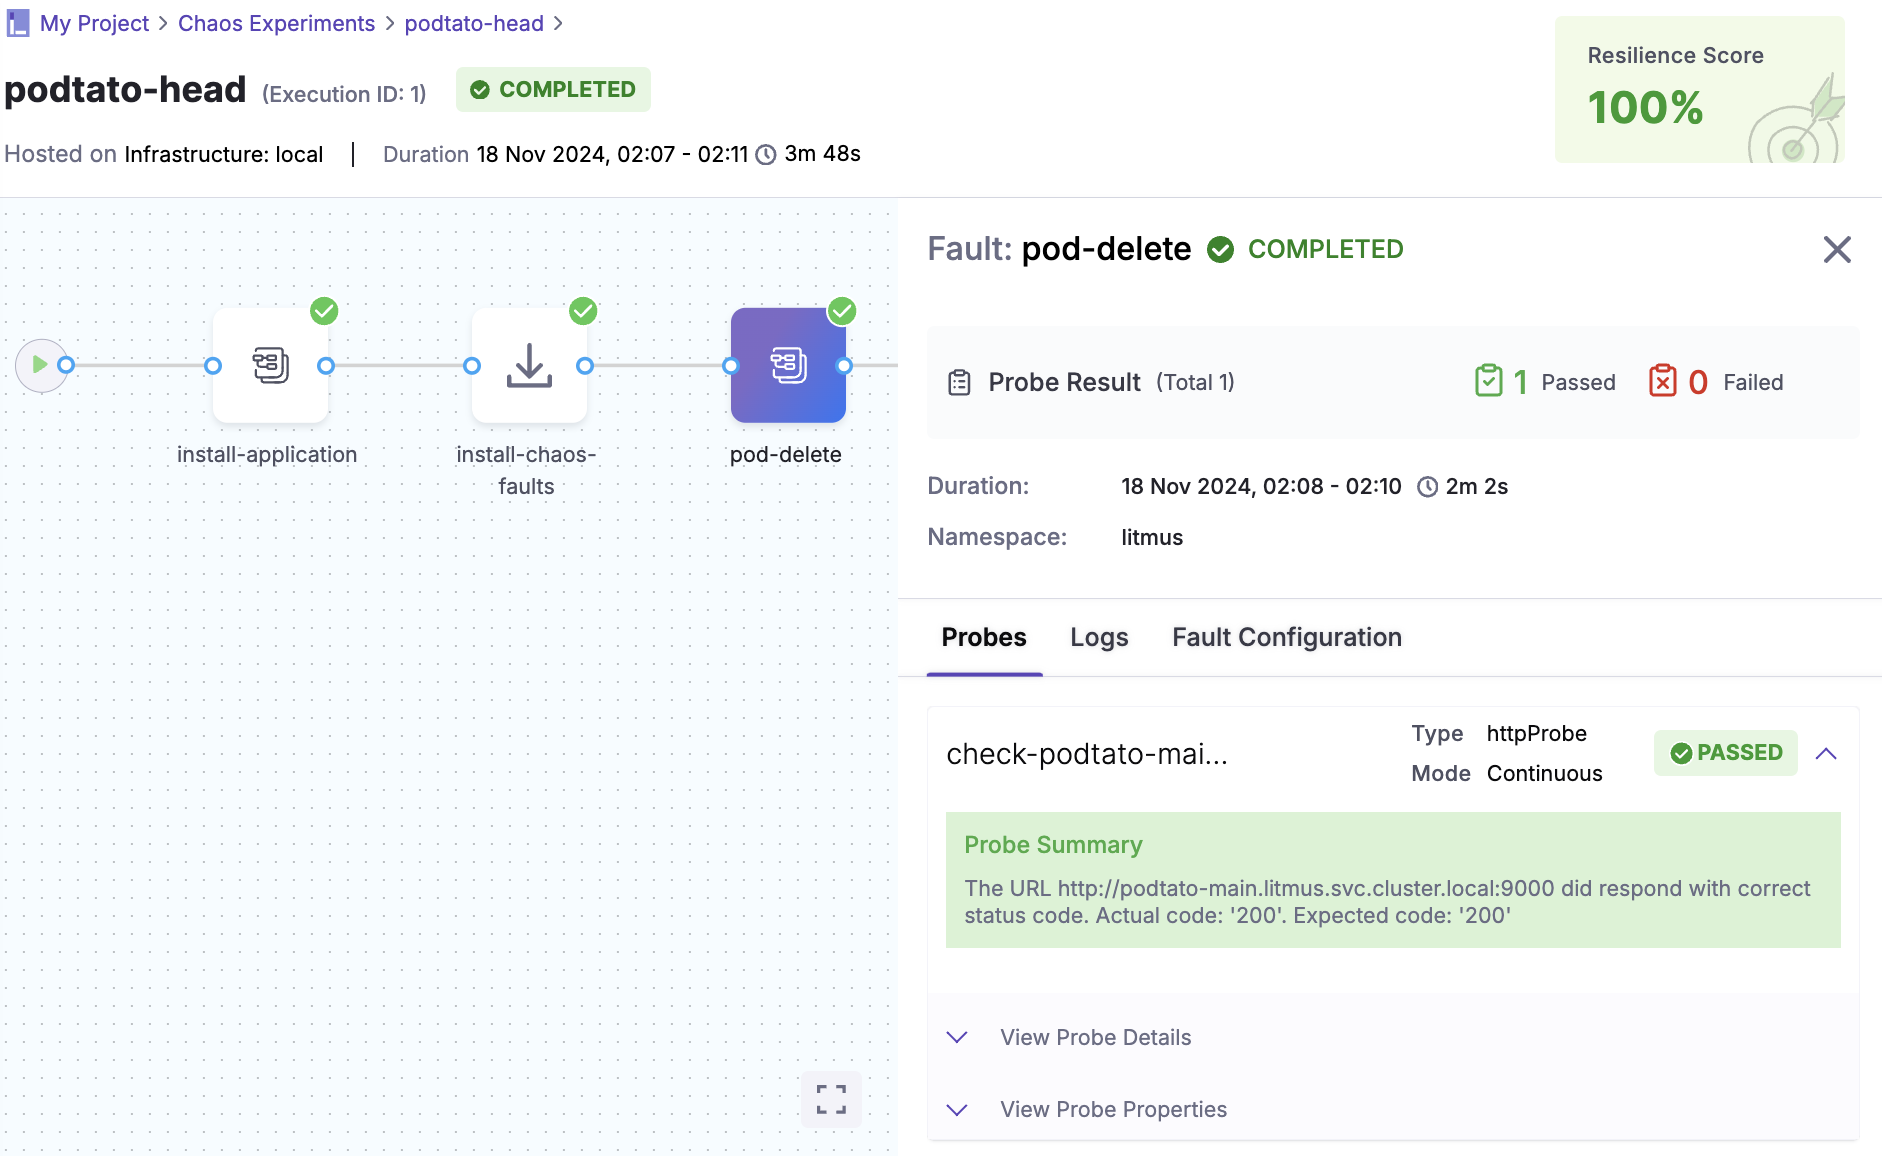
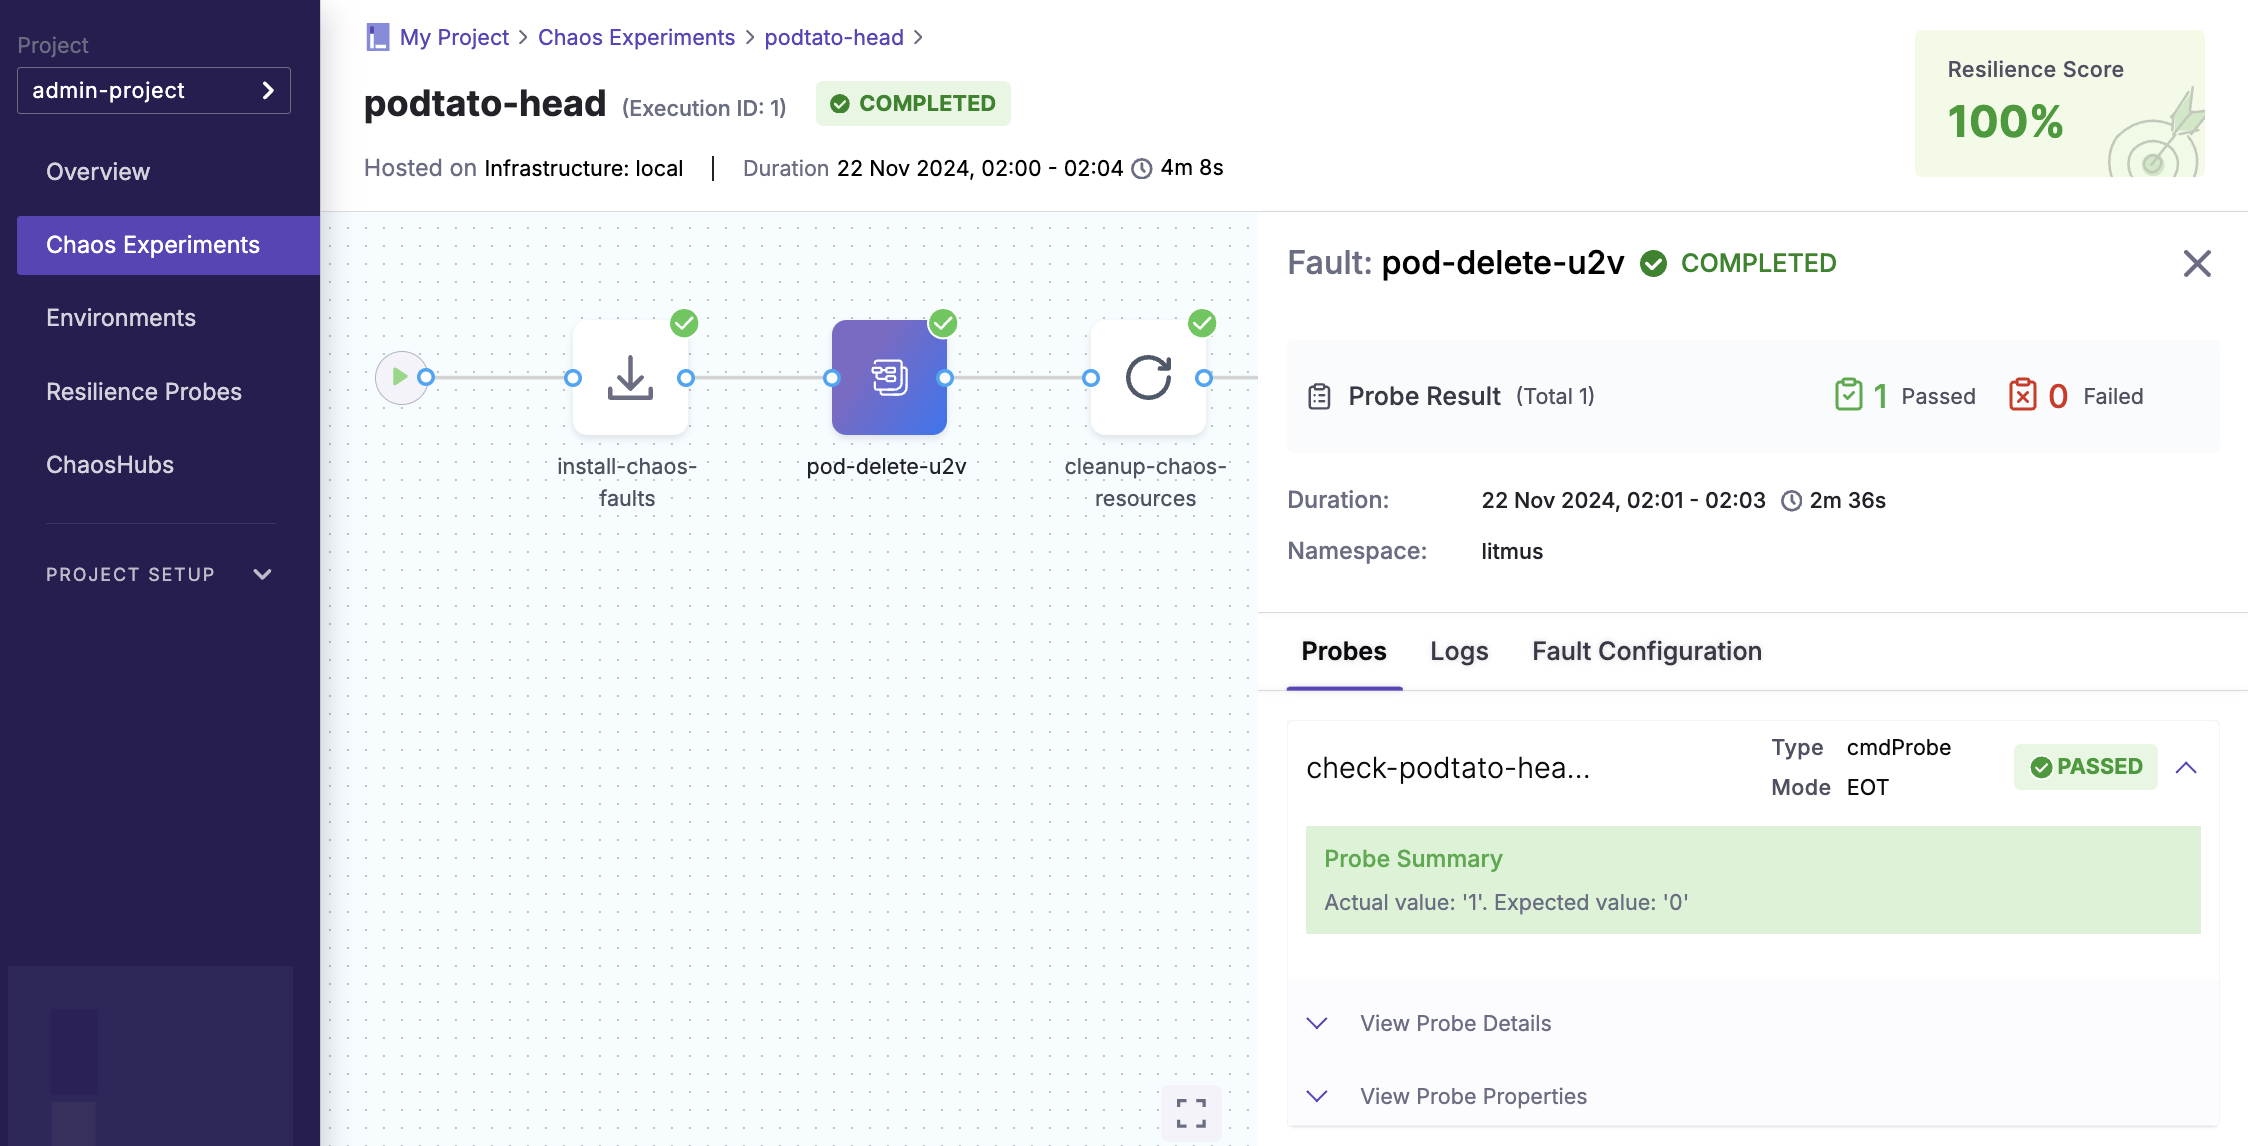
feat: add description and change tutorial to not use the template

diff --git a/website/docs/tutorials/podtato-head.md b/website/docs/tutorials/podtato-head.md
@@ -8,25 +8,42 @@ sidebar_label: Podtato-head
 
 ![podtato-head](../assets/tutorials/podtato-head/podtato-head.png)
 
-In this tutorial, you will inject a pod-delete fault into a sample microservices application called [podtato-head](https://github.com/cncf/podtato-head) and verify if the service continues to be available during the chaos duration.
+In this tutorial, you will inject a pod-delete fault into the `podtato-head-hat` pod of the sample microservices application, [podtato-head](https://github.com/cncf/podtato-head), and check if the pod remains available during the chaos.
+
+## What is Podtato-head?
+
+[Podtato-head](https://github.com/cncf/podtato-head) is a sample application provided by the [CNCF](https://github.com/cncf) designed for practicing Kubernetes and cloud-native environments. This application is composed of several microservices, including frontend, hat, left/right-arm, and left/right-leg. It serves as an environment for experimenting with fault recovery capabilities and testing the system resilience.
 
 ## Prerequisites
 
 - Kubernetes 1.18 or later (minimum 2 vCPUs, 8GB RAM, 10GB disk space)
-
 - A Persistent volume of 20GB
+- [Kubectl](https://kubernetes.io/docs/tasks/tools/#kubectl)
 
-- [Helm3](https://v3.helm.sh/) or [kubectl](https://kubernetes.io/docs/tasks/tools/#kubectl)
+## Install Podtato-head
+
+1. Install `podtato-head` in the `podtato-kubectl` namespace using the manifest file, which also creates the namespace
+
+```bash
+kubectl apply -f https://github.com/podtato-head/podtato-head-app/releases/download/v0.3.3/manifest.yaml 
+```
+
+2. Add a label to the `podtato-head-hat` deployment
+
+```bash
+kubectl label deployment podtato-head-hat app=podtato-head-hat -n podtato-kubectl
+```
 
 ## Install ChaosCenter
 
-1. Follow the [Getting-started](../getting-started/installation.md) to install ChaosCenter
+1. Follow the [Getting-started](../getting-started/installation.md) guide to install ChaosCenter
 
-2. Access to ChaosCenter Dashboard
+2. Access the ChaosCenter Dashboard
 
 ![chaoscenter-dashboard](../assets/tutorials/podtato-head/chaoscenter-dashboard.png)
 
 ## Set up Environment
+
 1. Add a new environment
 - Environment Name: `local`
 - Environment Type: `Production`
@@ -47,68 +64,53 @@ In this tutorial, you will inject a pod-delete fault into a sample microservices
 kubectl apply -f local-litmus-chaos-enable.yml
 ```
 
-3. Wait until the status shows `CONNECTED`.
+3. Wait until the status changes to `CONNECTED`.
 
 ![connected](../assets/tutorials/podtato-head/connected.png)
 
 ## Set up Resilience Probe
 
-1. Select HTTP Probe as the probe type
+1. Select **CMD Probe** as the probe type
 
-2. Configure properties & probe details
-- Name: `check-podtato-main-access-probe`
+2. Configure the probe properties and details
+- Name: `check-podtato-head-hat-pod`
 - Timeout: `10s`
 - Interval: `1s`
 - Attempt: `1`
-- URL: `http://podtato-main.{{workflow.parameters.adminModeNamespace}}.svc.cluster.local:9000`
-- Method: `GET`
-- Criteria: `==`
-- Response Code: `200`
+- Command: `kubectl get pods -n podtato-kubectl | grep podtato-head-hat | grep Running | wc -l`
+- Type: `Int`
+- Comparison Criteria: `>`
+- Value: `0`
 
 ![setup-probe](../assets/tutorials/podtato-head/setup-probe.png)
 
-## Run Chaos Experiment with Podtato-head
-1. For Kubernetes v1.24 or later, bind a ClusterRole to the `argo-chaos` service account 
+## Run Chaos Experiment
 
-```bash
-kubectl create rolebinding argo-chaos-binding --clusterrole=admin --serviceaccount=litmus:argo-chaos -n litmus
-```
-
-2. Configure a new chaos experiment
+1. Start a new chaos experiment
 - Name: `podtato-head`
 - Chaos Infrastructure: `local`
+- Builder Type: `Blank Canvas`
 
-3. Select **Podtato-head Chaos** template 
+![start-chaos-experiment](../assets/tutorials/podtato-head/start-chaos-experiment.png)
 
-![podtato-head-template](../assets/tutorials/podtato-head/podtato-head-template.png)
+2. Add the `pod-delete` chaos fault
 
-4. Add the new probe to `pod-delete` fault
-- Probe Name: `check-podtato-main-access-probe`
-- Mode: `Continuous`
+![add-pod-delete](../assets/tutorials/podtato-head/add-pod-delete.png)
+
+3. Select the target application for the `pod-delete` chaos fault
+- App Kind: `deployment`
+- App Namespace: `podtato-kubectl`
+- App Label: `app=podtato-head-hat`
+
+![select-target-application](../assets/tutorials/podtato-head/select-target-application.png)
+
+4. Add the probe to the `pod-delete` chaos fault
+- Probe Name: `check-podtato-head-hat-pod`
+- Mode: `EOT`
 
 ![add-probe](../assets/tutorials/podtato-head/add-probe.png)
 
-5. Remove the old probe section below from `podtato-head.yml`
-
-```yaml
-probe:
-- name: "check-podtato-main-access-url"
-    type: "httpProbe"
-    httpProbe/inputs:
-    url: "http://podtato-main.{{workflow.parameters.adminModeNamespace}}.svc.cluster.local:9000"
-    insecureSkipVerify: false
-    method:
-        get:
-        criteria: "=="
-        responseCode: "200"
-    mode: "Continuous"
-    runProperties:
-    probeTimeout: 1s
-    interval: 100ms
-    attempt: 1
-```
-
-6. Save and run the chaos experiment
+5. Save and run the chaos experiment
 
 ## Check Chaos Experiment Results
 

diff --git a/website/versioned_docs/version-3.12.0/tutorials/podtato-head.md b/website/versioned_docs/version-3.12.0/tutorials/podtato-head.md
@@ -8,25 +8,42 @@ sidebar_label: Podtato-head
 
 ![podtato-head](../assets/tutorials/podtato-head/podtato-head.png)
 
-In this tutorial, you will inject a pod-delete fault into a sample microservices application called [podtato-head](https://github.com/cncf/podtato-head) and verify if the service continues to be available during the chaos duration.
+In this tutorial, you will inject a pod-delete fault into the `podtato-head-hat` pod of the sample microservices application, [podtato-head](https://github.com/cncf/podtato-head), and check if the pod remains available during the chaos.
+
+## What is Podtato-head?
+
+[Podtato-head](https://github.com/cncf/podtato-head) is a sample application provided by the [CNCF](https://github.com/cncf) designed for practicing Kubernetes and cloud-native environments. This application is composed of several microservices, including frontend, hat, left/right-arm, and left/right-leg. It serves as an environment for experimenting with fault recovery capabilities and testing the system resilience.
 
 ## Prerequisites
 
 - Kubernetes 1.18 or later (minimum 2 vCPUs, 8GB RAM, 10GB disk space)
-
 - A Persistent volume of 20GB
+- [Kubectl](https://kubernetes.io/docs/tasks/tools/#kubectl)
 
-- [Helm3](https://v3.helm.sh/) or [kubectl](https://kubernetes.io/docs/tasks/tools/#kubectl)
+## Install Podtato-head
+
+1. Install `podtato-head` in the `podtato-kubectl` namespace using the manifest file, which also creates the namespace
+
+```bash
+kubectl apply -f https://github.com/podtato-head/podtato-head-app/releases/download/v0.3.3/manifest.yaml 
+```
+
+2. Add a label to the `podtato-head-hat` deployment
+
+```bash
+kubectl label deployment podtato-head-hat app=podtato-head-hat -n podtato-kubectl
+```
 
 ## Install ChaosCenter
 
-1. Follow the [Getting-started](../getting-started/installation.md) to install ChaosCenter
+1. Follow the [Getting-started](../getting-started/installation.md) guide to install ChaosCenter
 
-2. Access to ChaosCenter Dashboard
+2. Access the ChaosCenter Dashboard
 
 ![chaoscenter-dashboard](../assets/tutorials/podtato-head/chaoscenter-dashboard.png)
 
 ## Set up Environment
+
 1. Add a new environment
 - Environment Name: `local`
 - Environment Type: `Production`
@@ -47,68 +64,53 @@ In this tutorial, you will inject a pod-delete fault into a sample microservices
 kubectl apply -f local-litmus-chaos-enable.yml
 ```
 
-3. Wait until the status shows `CONNECTED`.
+3. Wait until the status changes to `CONNECTED`.
 
 ![connected](../assets/tutorials/podtato-head/connected.png)
 
 ## Set up Resilience Probe
 
-1. Select HTTP Probe as the probe type
+1. Select **CMD Probe** as the probe type
 
-2. Configure properties & probe details
-- Name: `check-podtato-main-access-probe`
+2. Configure the probe properties and details
+- Name: `check-podtato-head-hat-pod`
 - Timeout: `10s`
 - Interval: `1s`
 - Attempt: `1`
-- URL: `http://podtato-main.{{workflow.parameters.adminModeNamespace}}.svc.cluster.local:9000`
-- Method: `GET`
-- Criteria: `==`
-- Response Code: `200`
+- Command: `kubectl get pods -n podtato-kubectl | grep podtato-head-hat | grep Running | wc -l`
+- Type: `Int`
+- Comparison Criteria: `>`
+- Value: `0`
 
 ![setup-probe](../assets/tutorials/podtato-head/setup-probe.png)
 
-## Run Chaos Experiment with Podtato-head
-1. For Kubernetes v1.24 or later, bind a ClusterRole to the `argo-chaos` service account 
+## Run Chaos Experiment
 
-```bash
-kubectl create rolebinding argo-chaos-binding --clusterrole=admin --serviceaccount=litmus:argo-chaos -n litmus
-```
-
-2. Configure a new chaos experiment
+1. Start a new chaos experiment
 - Name: `podtato-head`
 - Chaos Infrastructure: `local`
+- Builder Type: `Blank Canvas`
 
-3. Select **Podtato-head Chaos** template 
+![start-chaos-experiment](../assets/tutorials/podtato-head/start-chaos-experiment.png)
 
-![podtato-head-template](../assets/tutorials/podtato-head/podtato-head-template.png)
+2. Add the `pod-delete` chaos fault
 
-4. Add the new probe to `pod-delete` fault
-- Probe Name: `check-podtato-main-access-probe`
-- Mode: `Continuous`
+![add-pod-delete](../assets/tutorials/podtato-head/add-pod-delete.png)
+
+3. Select the target application for the `pod-delete` chaos fault
+- App Kind: `deployment`
+- App Namespace: `podtato-kubectl`
+- App Label: `app=podtato-head-hat`
+
+![select-target-application](../assets/tutorials/podtato-head/select-target-application.png)
+
+4. Add the probe to the `pod-delete` chaos fault
+- Probe Name: `check-podtato-head-hat-pod`
+- Mode: `EOT`
 
 ![add-probe](../assets/tutorials/podtato-head/add-probe.png)
 
-5. Remove the old probe section below from `podtato-head.yml`
-
-```yaml
-probe:
-- name: "check-podtato-main-access-url"
-    type: "httpProbe"
-    httpProbe/inputs:
-    url: "http://podtato-main.{{workflow.parameters.adminModeNamespace}}.svc.cluster.local:9000"
-    insecureSkipVerify: false
-    method:
-        get:
-        criteria: "=="
-        responseCode: "200"
-    mode: "Continuous"
-    runProperties:
-    probeTimeout: 1s
-    interval: 100ms
-    attempt: 1
-```
-
-6. Save and run the chaos experiment
+5. Save and run the chaos experiment
 
 ## Check Chaos Experiment Results
 
